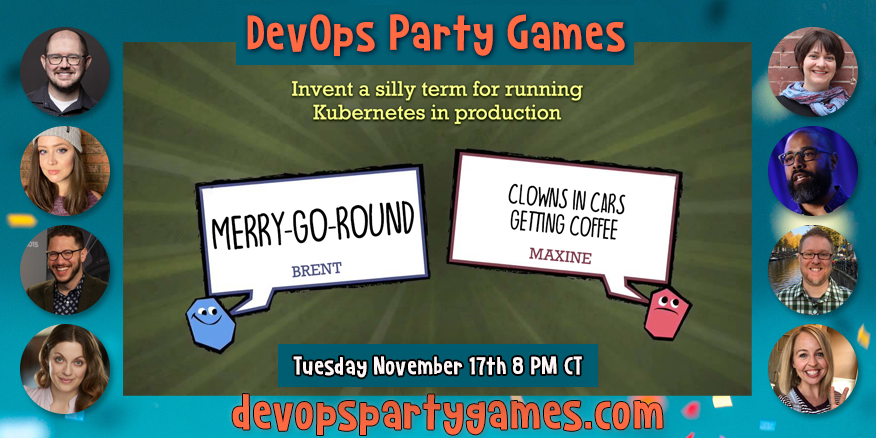
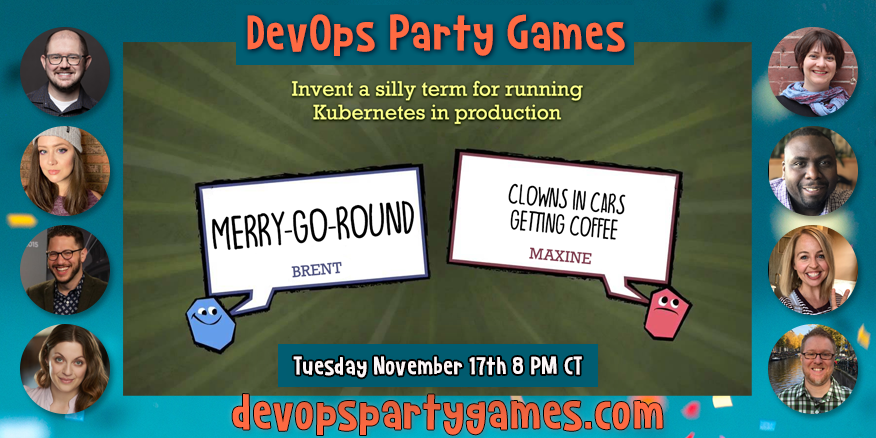
Update with Jeff Smith

Changed region(s): [[0.863, 0.2671, 0.9863, 0.9498]]

diff --git a/src/components/seo.js b/src/components/seo.js
@@ -29,7 +29,7 @@ const SEO = ({ description, lang, meta, title, image }) => {
   )
 
   const metaDescription = description || site.siteMetadata.description
-  const defaultOpenGraphImage = '/images/twittercard.png'
+  const defaultOpenGraphImage = '/images/episodes/episode6-social.png'
   const ogImageUrl = 
     site.siteMetadata.siteUrl +
     ( image || defaultOpenGraphImage )

diff --git a/src/pages/posts/episode-6.md b/src/pages/posts/episode-6.md
@@ -20,15 +20,13 @@ Join the livestream at [twitch.tv/mattstratton](https://twitch.tv/mattstratton)
 ## Players
 
 <a href = "https://twitter.com/jpaulreed" class = "player-episode-page" target = "_blank"><img src = "/images/players/paul-reed.png" alt="J. Paul Reed" width="200" height="100" class = "player-episode-page"></a>
-<a href = "https://twitter.com/_mallorybrewer_" class = "player-episode-page" target = "_blank"><img src = "/images/players/mallory-brewer.png" alt="Mallory Brewer" width="200" height="100" class = "player-episode-page"></a>
+<a href = "https://twitter.com/malwaaare" class = "player-episode-page" target = "_blank"><img src = "/images/players/mallory-brewer.png" alt="Mallory Brewer" width="200" height="100" class = "player-episode-page"></a>
 <a href = "https://twitter.com/mbbroberg" class = "player-episode-page" target = "_blank"><img src = "/images/players/matt-broberg.png" alt="Matt Broberg" width="200" height="100" class = "player-episode-page"></a>
 <a href = "https://twitter.com/divineops" class = "player-episode-page" target = "_blank"><img src = "/images/players/sasha-rosenbaum.png" alt="Sasha Rosenbaum" width="200" height="100" class = "player-episode-page"></a>
 <a href = "https://twitter.com/mindseyeccf" class = "player-episode-page" target = "_blank"><img src = "/images/players/ashton-rodeniser.png" alt="Ashton Rodenhiser" width="200" height="100" class = "player-episode-page"></a>
-<img src = "/images/players/mystery-guest2.png" alt="Mystery Guest" width="200" height="100" class = "player-episode-page">
-<!-- <a href = "https://twitter.com/sonofgarr" class = "player-episode-page" target = "_blank"><img src = "/images/players/mike-mcgarr.png" alt="Mike McGarr" width="200" height="100" class = "player-episode-page"></a> -->
-<a href = "https://twitter.com/joelaha" class = "player-episode-page" target = "_blank"><img src = "/images/players/joelaha.png" alt="Joe Laha" width="200" height="100" class = "player-episode-page"></a>
+<a href = "https://twitter.com/darkandnerdy" class = "player-episode-page" target = "_blank"><img src = "/images/players/jeff-smith.png" alt="Jeff Smith" width="200" height="100" class = "player-episode-page"></a>
 <a href = "https://twitter.com/jillwohlner" class = "player-episode-page" target = "_blank"><img src = "/images/players/jill-wohlner.png" alt="Jill Wohlner" width="200" height="100" class = "player-episode-page"></a>
-
+<a href = "https://twitter.com/joelaha" class = "player-episode-page" target = "_blank"><img src = "/images/players/joelaha.png" alt="Joe Laha" width="200" height="100" class = "player-episode-page"></a>
 
 <br clear = "all">
 
